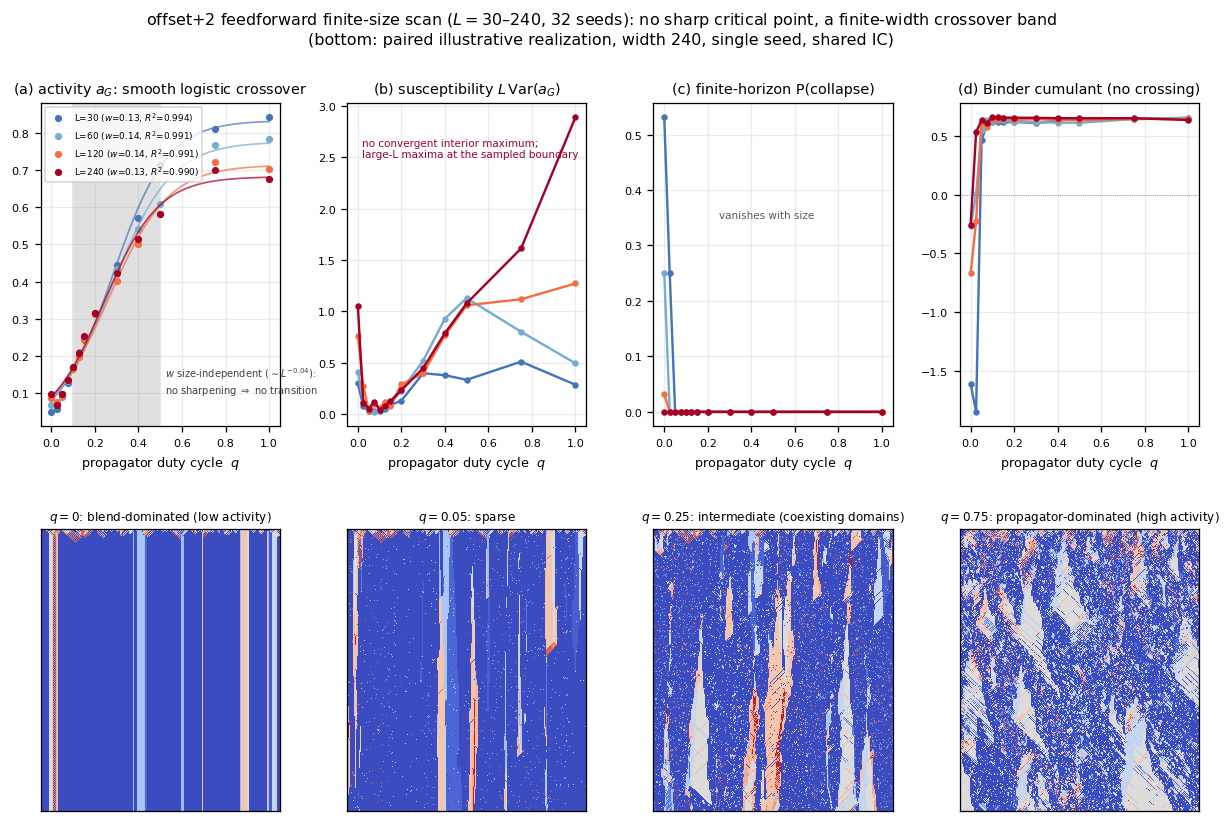
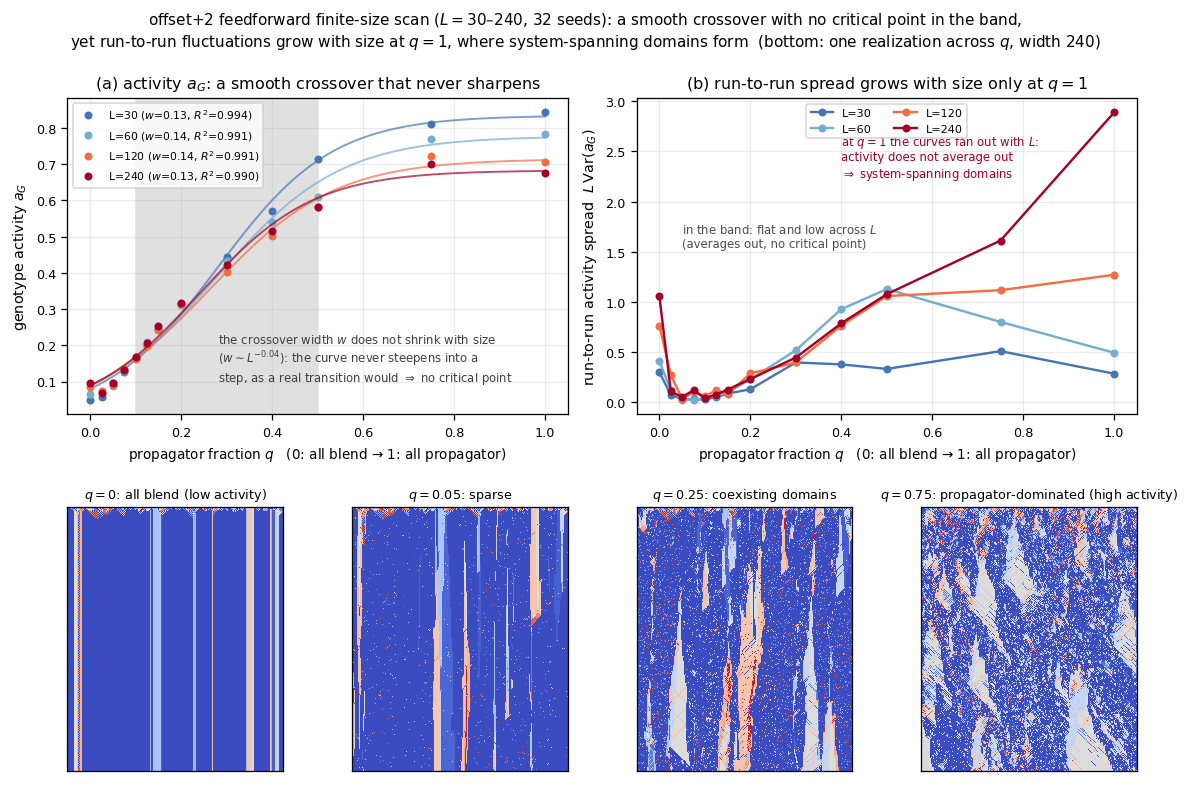
paper: Figure 8 rebuilt (a+b, interpretable); own the q=1 fluctuation growth
Joe found the red (L=240) susceptibility line "explodes" at q=1 -- verified: raw
Var(a_G) at q=1 stays ~constant with L (9.5->12.0 x1e-3) instead of falling ~1/L,
so L*Var grows ~L. The interior crossover self-averages (Var falls). So the
"no divergence" gloss was wrong: the fluctuations DON'T average out at q=1 --
the quantitative signature of the system-spanning coexisting domains (Fig 9),
exactly where offset+2 runs and the walls/churn live.
- plot_eoc_phase.py: dropped panels (c)/(d); kept (a)+(b) as two wide panels +
  the 4 realisations; honest (b) annotations (fan-out at q=1 = domains; flat band
  = averages out); relabelled axis "propagator fraction (0 all blend->1 all prop)".
- Discussion paragraph rewritten in plain terms (self-averaging explained) and
  now OWNS the q=1 growth, scoping "no critical point" to the band; drops
  Binder/collapse. Caption matched. w corrected 0.18->0.13 (matches fits).
Builds clean: 33pp, 0 undefined refs, 0 overfull. (plotter: mmca-clj, next commit)

diff --git a/holes/tech-notes/paper/draft3.tex b/holes/tech-notes/paper/draft3.tex
@@ -728,23 +728,29 @@ finite-size scan and find no such point. We therefore ask a
 different and answerable question: whether the sustained diversity is spatially
 organised into coexisting dynamical regimes.
 
-\paragraph{No sharp critical point.}
+\paragraph{No critical point in the band; fluctuations at the propagator limit.}
 In the feedforward base the natural control parameter is the \emph{propagator
-duty cycle} $q$: the probability that a cell applies the propagator write, with
-$1-q$ holding the neighbour-agreement blend ($q=0$ blend-dominated, $q=1$
-propagator everywhere). Across widths $L = 30$ to $240$ (32 seeds each), the
-genotype activity $a_G(q)$---the late-time changed-cell fraction---rises
-\emph{smoothly} with $q$ and is well described by a logistic crossover,
-$R^2 > 0.99$ at every width (Figure~\ref{fig:phase}a). Crucially, the fitted
-crossover width does not shrink with system size ($w \approx 0.18$,
-$w \sim L^{-0.04}$): the curve does not sharpen towards a step, as the order
-parameter of a genuine critical transition would ($w \sim L^{-1/\nu} \to 0$). The
-susceptibility $L\,\mathrm{Var}(a_G)$ has no convergent interior maximum---its
-peak wanders and the largest systems attain their maxima at the sampled
-boundary---and the Binder cumulant shows no crossing
-(Figure~\ref{fig:phase}b,d). We therefore find \emph{no evidence for a sharp
-critical point} in this parameterisation; the honest reading is a broad,
-size-stable crossover.
+fraction} $q$: the probability that a cell applies the propagator write, with
+$1-q$ holding the neighbour-agreement blend ($q = 0$ all blend, $q = 1$ all
+propagator). Across widths $L = 30$ to $240$ (32 seeds each) the genotype activity
+$a_G(q)$---the late-time changed-cell fraction---rises \emph{smoothly} with $q$,
+well described by a logistic crossover ($R^2 > 0.99$ at every width,
+Figure~\ref{fig:phase}a). Crucially its width does not shrink with system size
+($w \approx 0.13$, $w \sim L^{-0.04}$): the curve never steepens into a step, as
+the order parameter of a genuine critical transition would
+($w \sim L^{-1/\nu} \to 0$). A second, independent test looks at the run-to-run
+\emph{spread} in activity---how much $a_G$ varies from seed to seed, scaled by
+size ($L\,\mathrm{Var}(a_G)$, Figure~\ref{fig:phase}b). At an ordinary point that
+spread averages away as the system grows (larger systems self-average), so the
+scaled spread stays flat; through the crossover band it does exactly that. At
+$q = 1$, though---the pure-propagator limit at which offset $+2$ actually runs---it
+does \emph{not}: the spread grows with size, the signature of activity organised
+into \emph{system-spanning domains} rather than independent local fluctuations
+(the domains of Figure~\ref{fig:tint}). There is thus no critical point
+\emph{within} the crossover band; what fluctuations exist concentrate at the
+pure-propagator limit, exactly where the coexisting domains, walls, and genotype
+churn live. As $q = 1$ is the boundary of the scan we claim no confirmed critical
+point there---only growing, non-self-averaging fluctuations.
 
 \paragraph{A finite-width crossover---the littoral edge.}
 For descriptive purposes we define an intermediate-activity band operationally by
@@ -817,17 +823,17 @@ littoral filaments of these diagrams is a question for another paper.
 \begin{figure}[tb]
 \centering
 \includegraphics[width=\linewidth]{figures/eoc_phase.png}
-\caption{\textbf{No sharp critical point; a finite-width crossover.} offset $+2$
-feedforward finite-size scan ($L = 30$--$240$, 32 seeds), against the propagator
-duty cycle $q$. \textbf{(a)}~genotype activity $a_G$ with logistic fits
+\caption{\textbf{No critical point in the crossover band; fluctuations grow at the
+pure-propagator limit.} offset $+2$ feedforward finite-size scan ($L = 30$--$240$,
+32 seeds) against the propagator fraction $q$ ($0$: all blend, $1$: all
+propagator). \textbf{(a)}~genotype activity $a_G$ with logistic fits
 ($R^2 > 0.99$); the crossover width is size-independent ($w \sim L^{-0.04}$), so
-the curve does not sharpen towards a transition. \textbf{(b)}~susceptibility
-$L\,\mathrm{Var}(a_G)$: no convergent interior maximum, the large-$L$ maxima
-falling at the sampled boundary. \textbf{(c)}~finite-horizon collapse probability
-(eight consecutive inactive steps within $300$), which vanishes with size.
-\textbf{(d)}~Binder cumulant: no crossing. Bottom: a paired illustrative
-realisation (single seed, shared initial condition, width $240$) tinted by
-isolated-rule activity, from blend-dominated to propagator-dominated.}
+the curve never sharpens into a transition. \textbf{(b)}~the run-to-run spread in
+activity, scaled by size ($L\,\mathrm{Var}(a_G)$): flat across sizes through the
+band (it averages out---no critical point), but growing with size at $q = 1$,
+where the field organises into system-spanning domains. Bottom: one realisation
+across $q$ (single seed, width $240$) tinted by isolated-rule activity, from
+all-blend to propagator-dominated.}
 \label{fig:phase}
 \end{figure}
 
